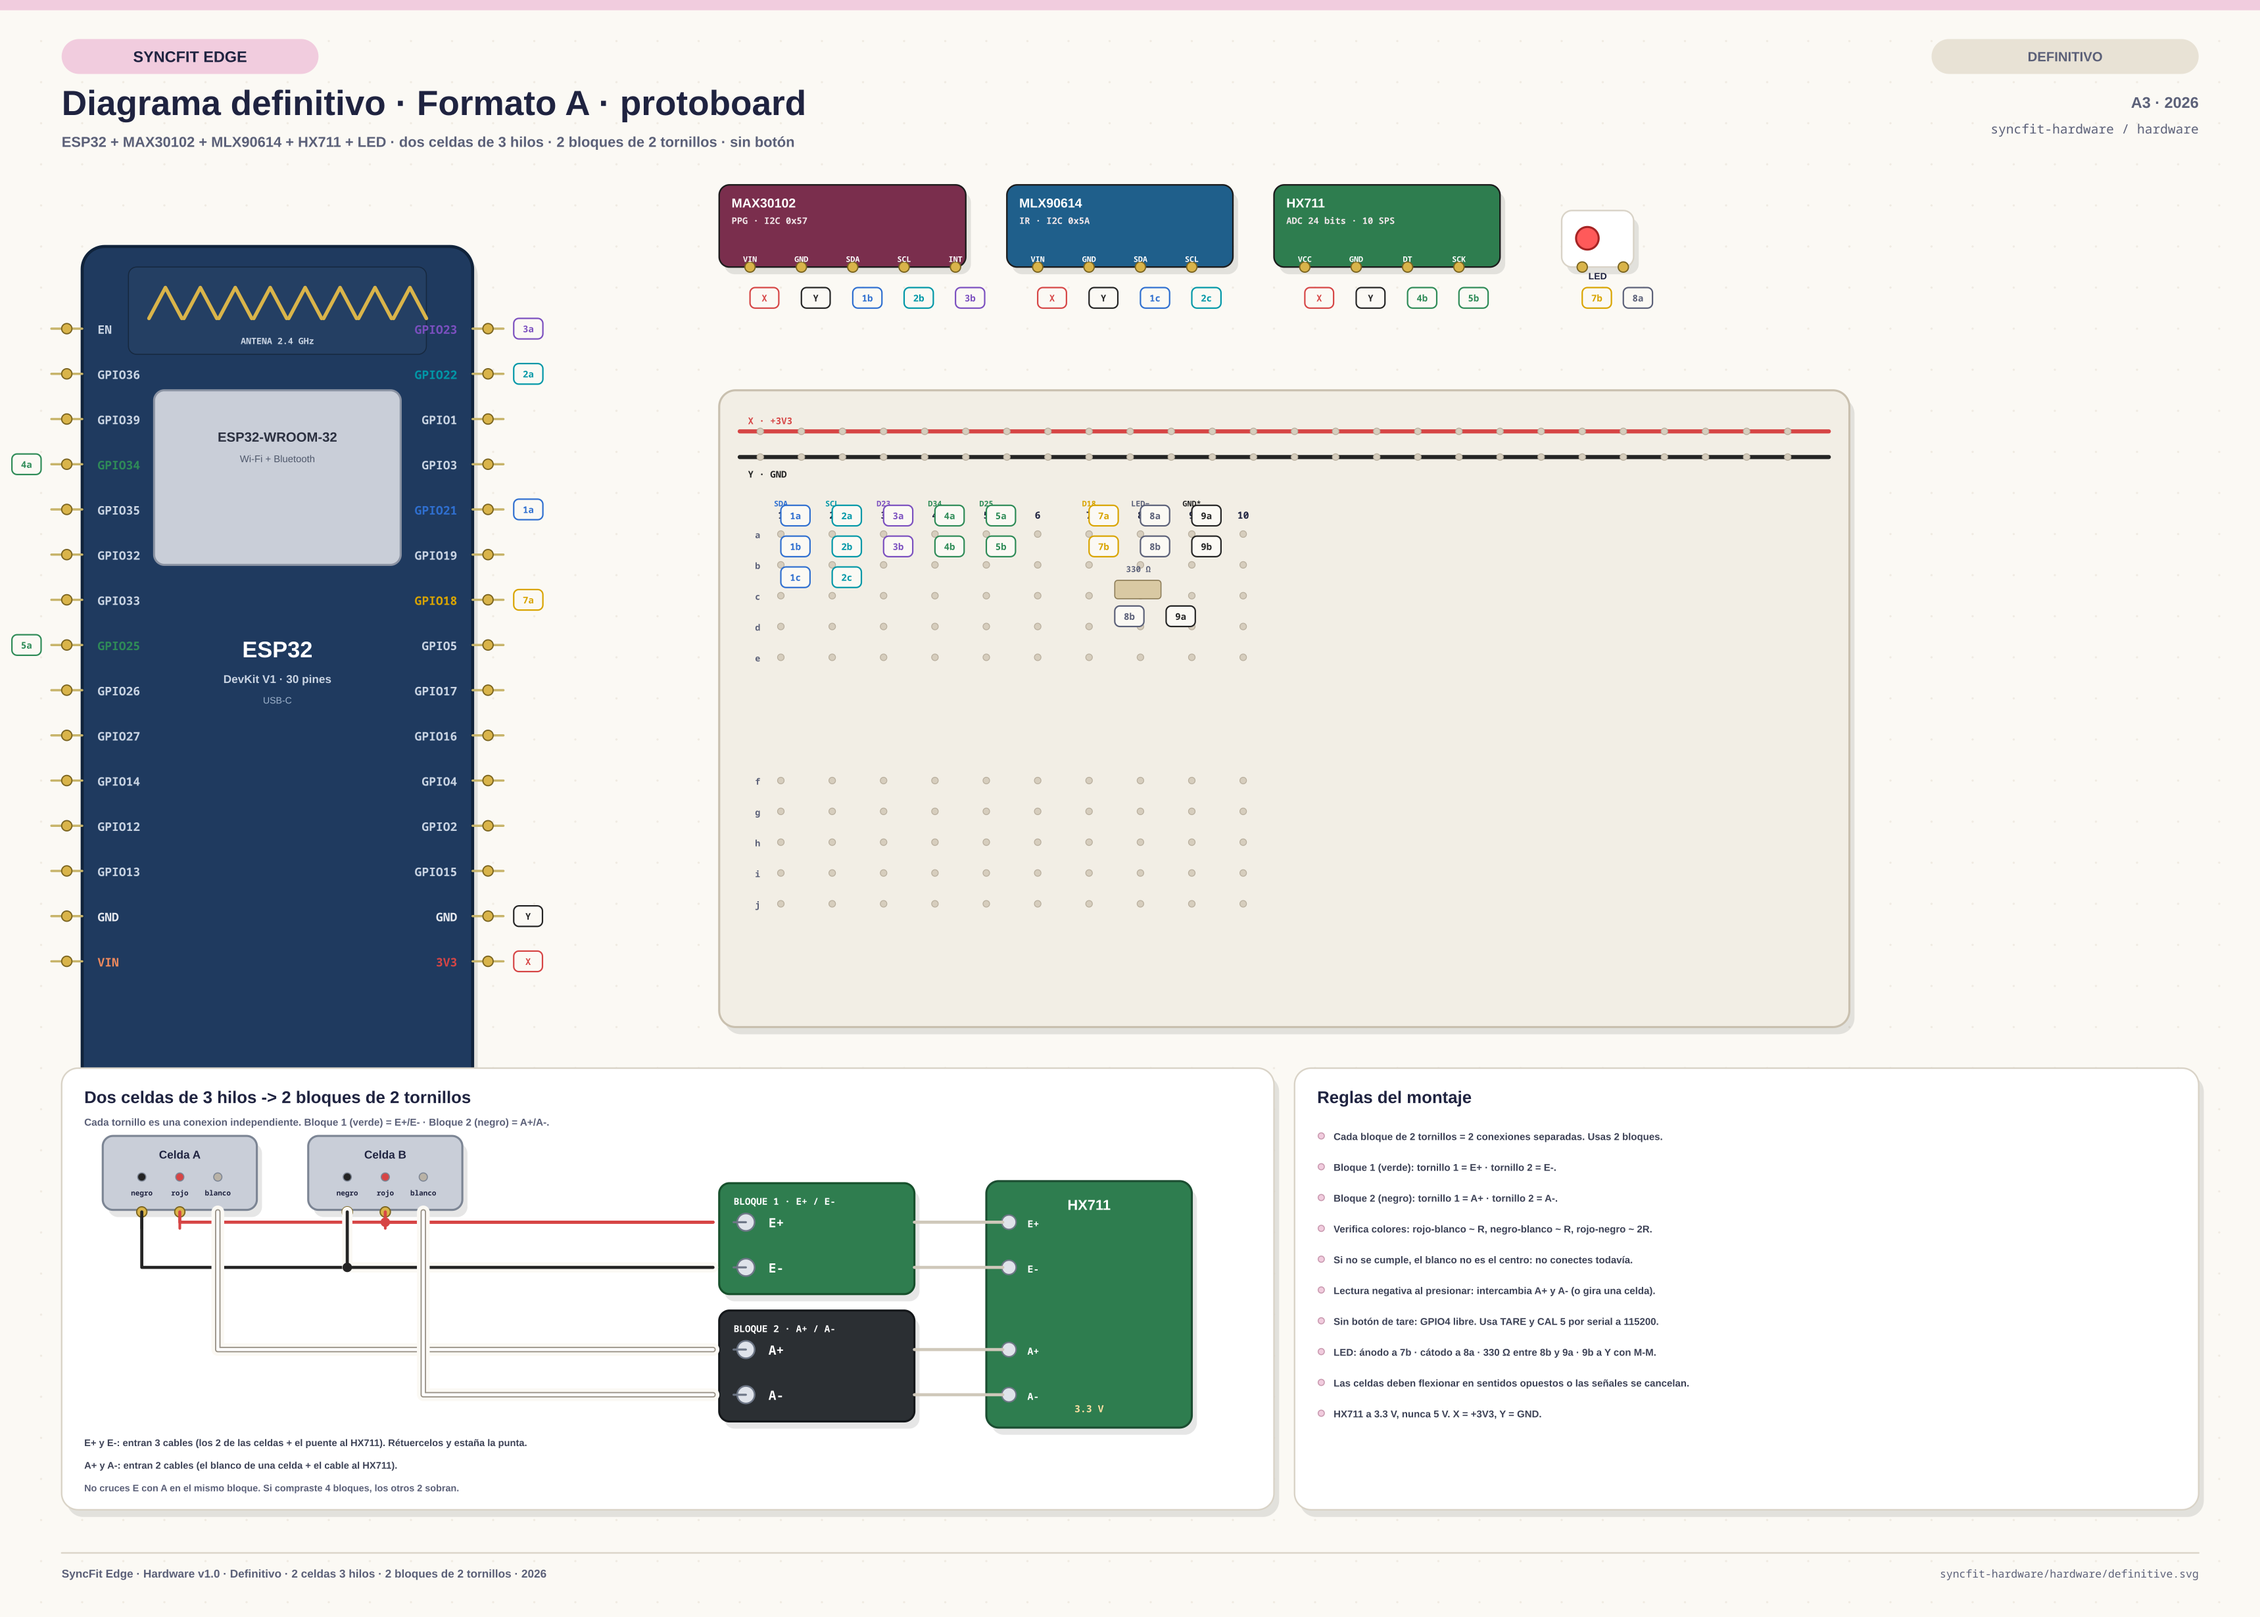
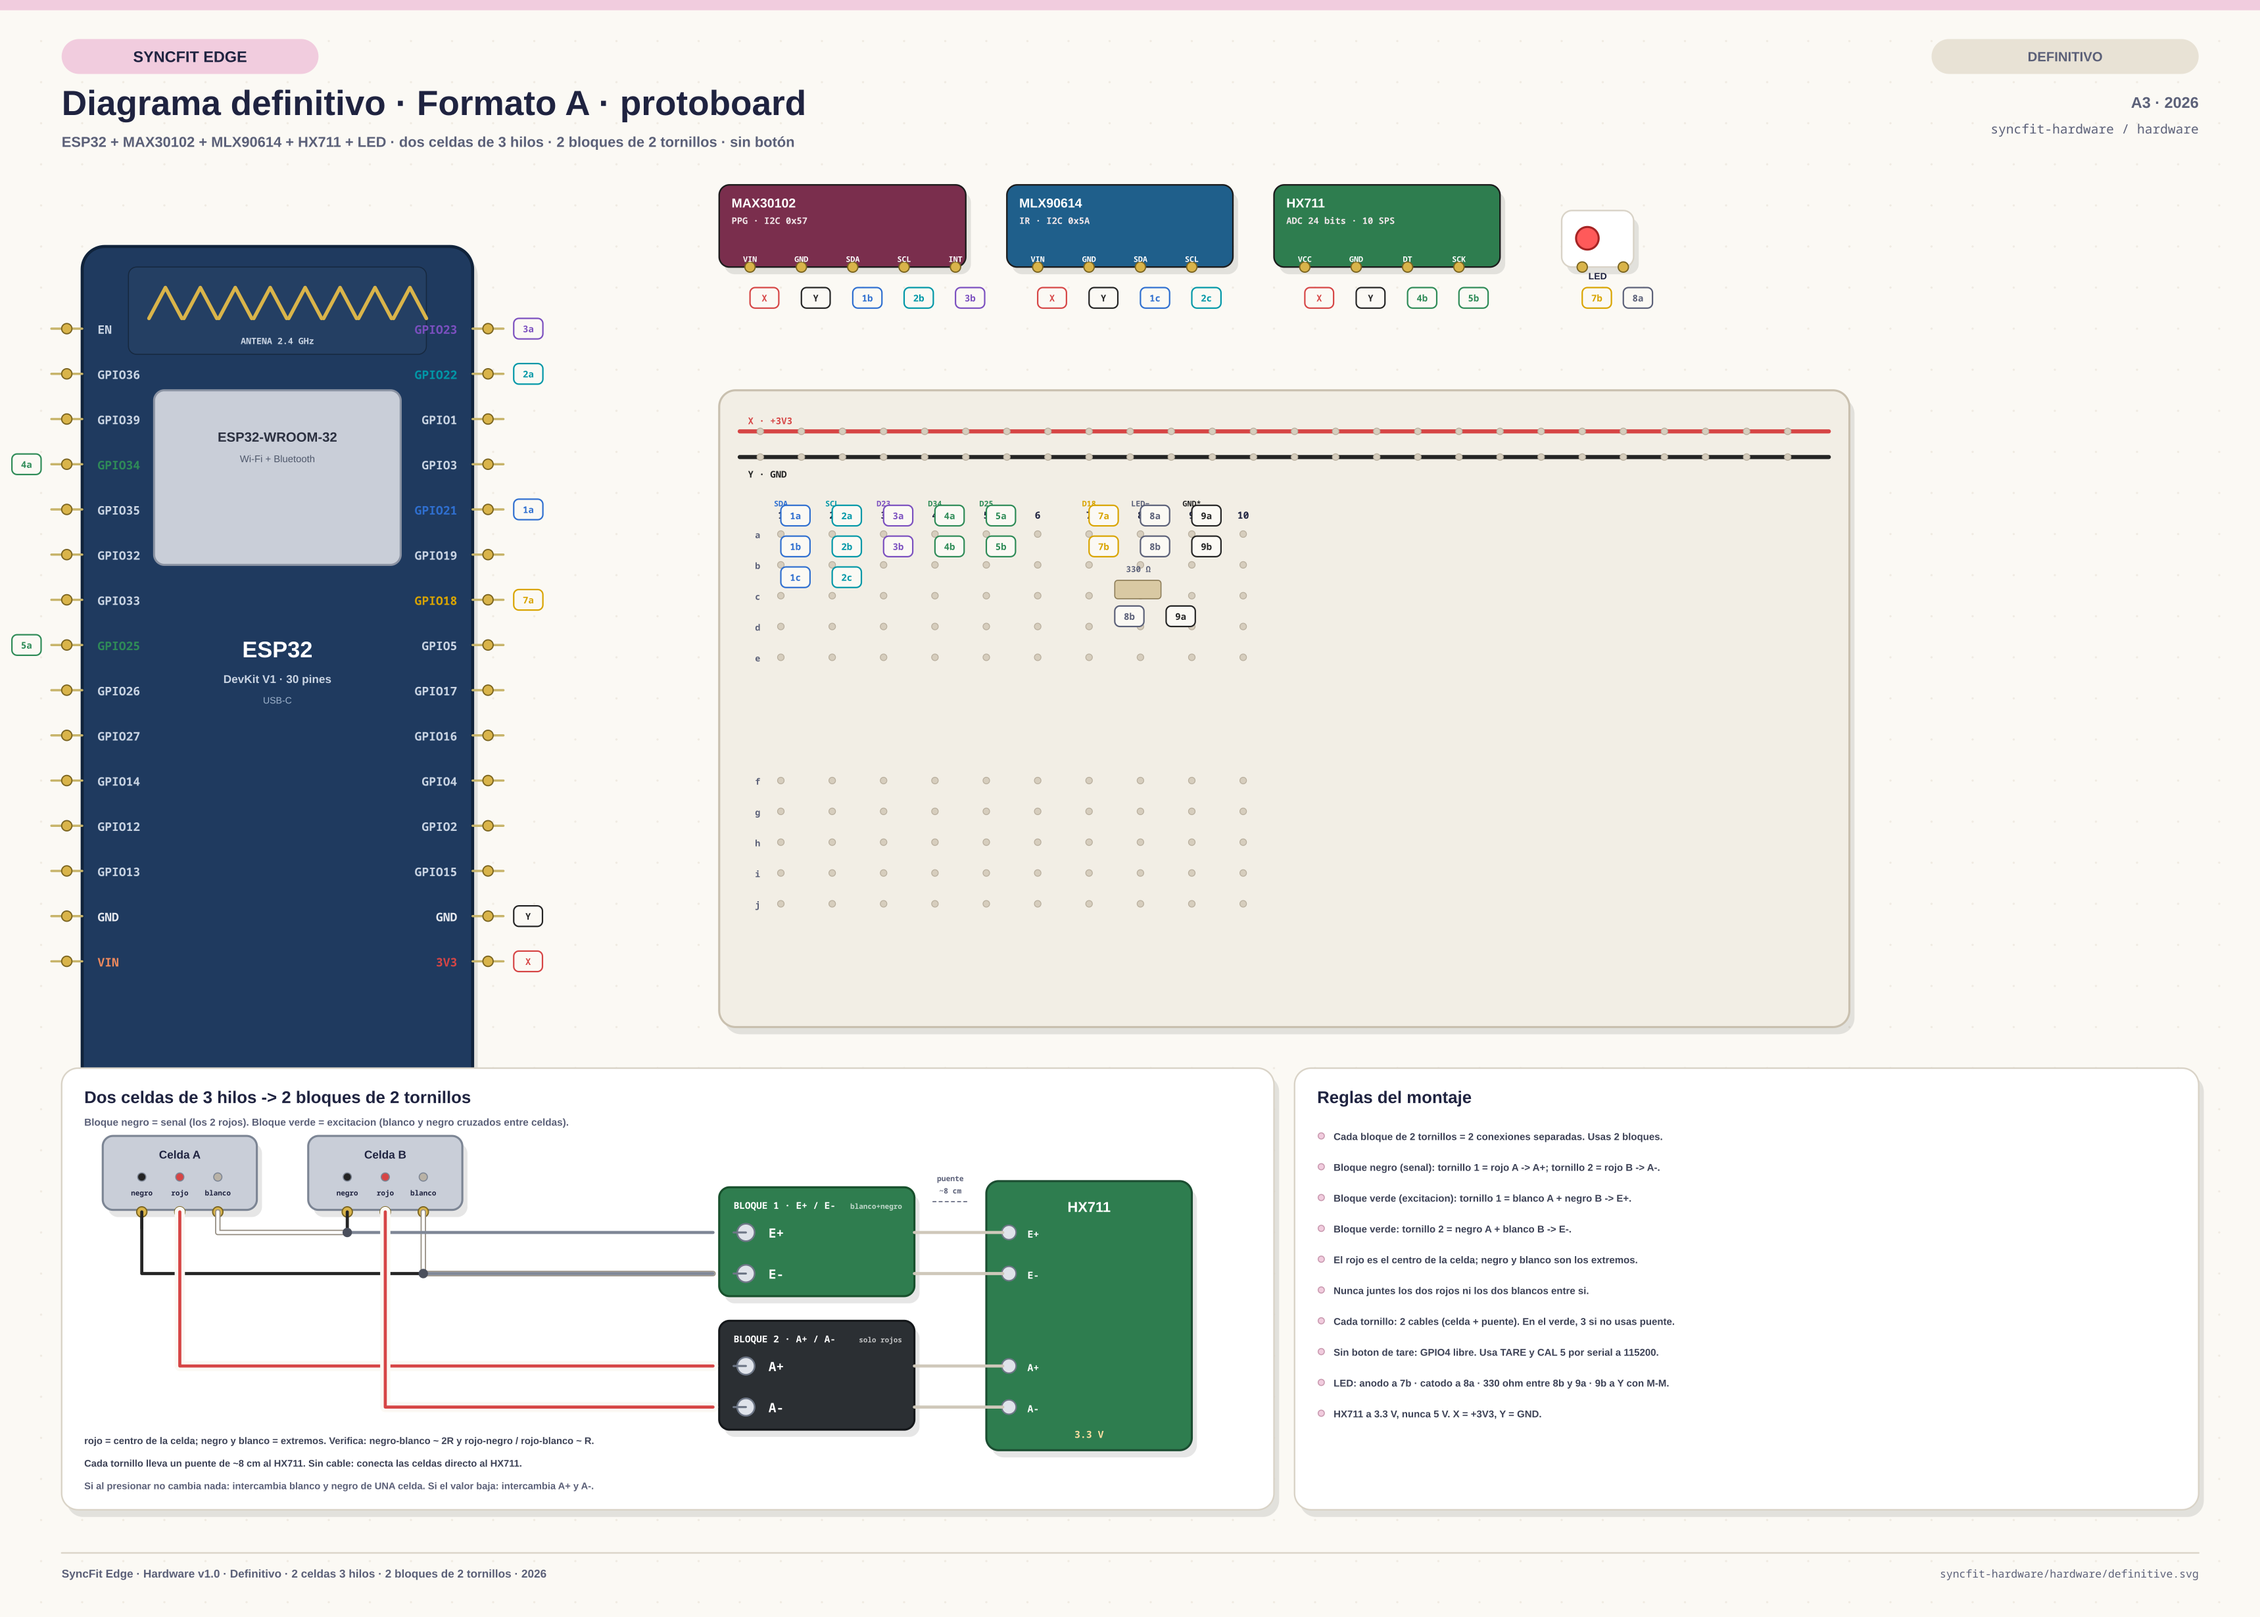
docs(hardware): red is the cell centre, ends crossed on the two blocks
Corrects the half-bridge wiring: each cell's red (centre) wire goes alone to A+/A-, and the black/white ends are crossed between cells (white A + black B to E+, black A + white B to E-). Redraws the definitive diagram with the ~8 cm jumpers and updates the connection map, pinout and READMEs.

diff --git a/hardware/connection-map.md b/hardware/connection-map.md
@@ -103,46 +103,46 @@ flat edge on the LED body also marks the cathode.
 resistor. Without it, you can test the rest of the system; the LED is only the
 status indicator.
 
-## 7. Two 3-wire load cells → HX711
+## 7. Two 3-wire load cells -> HX711
 
-Use **two identical 3-wire cells**. Each cell is a **half-bridge**: the white
-wire is the center; red and black are the ends.
+Use **two identical 3-wire cells**. Each cell is a **half-bridge**: one wire is
+the **centre** of the divider and the other two are its **ends**. On this cell
+the **red** wire is the centre; **black** and **white** are the ends.
 
 ```text
-Cell A red   ─┐
-Cell B red   ─┴── E+
+Cell A red   ──── A+
+Cell B red   ──── A−
+Cell A white ─┐
+Cell B black ─┴── E+
 Cell A black ─┐
-Cell B black ─┴── E−
-Cell A white ──── A+
-Cell B white ──── A−
+Cell B white ─┴── E−
 ```
 
-- Join the two red wires to `E+`.
-- Join the two black wires to `E−`.
-- One white wire to `A+`, the other to `A−`.
-- If the reading goes negative when you press, swap `A+` and `A−`, or rotate one
-  cell 180°.
+- The two **centres** (red) go to `A+` and `A−`, one per cell, never together.
+- The **ends are crossed**: cell A white + cell B black -> `E+`; cell A black +
+  cell B white -> `E−`.
+- Never join the two reds to each other, and never join the two whites.
+- If pressing does nothing, swap black and white of **one** cell (or rotate that
+  cell 180°).
+- If the reading goes negative, swap `A+` and `A−`.
 
-**Before soldering**, verify the colors with a multimeter:
+**Before connecting**, verify the colours with a multimeter:
 
 | Measurement | Expected for a half-bridge |
 |---|---|
-| red ↔ white | about R |
-| black ↔ white | about R |
-| red ↔ black | about 2R |
+| red <-> black | about R |
+| red <-> white | about R |
+| black <-> white | about 2R |
 
-If those values do not match, the wire colors are not the assumed mapping. Do
-not connect it until you confirm.
+The pair that reads 2R is the pair of ends; the remaining wire is the centre. The
+flat ribbon of this cell runs **black, red, white**, so the middle wire of the
+ribbon is also the centre.
 
-The flat ribbon of this cell runs **black, red, white** from left to right; the
-white is still the electrical center of the half-bridge, so the order on the
-cable does not change the wiring above.
-
-**Mechanics:** the two cells must be mounted so one flexes in the opposite
-direction to the other. If both are loaded the same way, the signals cancel. The
-final capacity depends on the mount: if the cells share the load, it can
-approach 2× the single-cell rating; if one takes the full load, it remains the
-single-cell rating.
+**Mechanics:** mount the two cells the same way, side by side, both compressed by
+the load. With this crossed wiring the two signals add. If one cell is mounted in
+the opposite direction, the signals cancel. The final capacity depends on the
+mount: if the cells share the load, it can approach 2x the single-cell rating; if
+one takes the full load, it stays at the single-cell rating.
 
 ### 7.1 Two 2-position terminal blocks
 
@@ -151,35 +151,37 @@ The build uses **two screw terminal blocks of 2 positions**, one **green** and o
 
 | Block | Screw | Net | What goes in the screw |
 |---|---|---|---|
-| **1 · green** | 1 | `E+` | cell A red + cell B red + wire to HX711 `E+` |
-| **1 · green** | 2 | `E−` | cell A black + cell B black + wire to HX711 `E−` |
-| **2 · black** | 1 | `A+` | cell A white + wire to HX711 `A+` |
-| **2 · black** | 2 | `A−` | cell B white + wire to HX711 `A−` |
+| **1 - green** | 1 | `E+` | cell A white + cell B black + jumper to HX711 `E+` |
+| **1 - green** | 2 | `E−` | cell A black + cell B white + jumper to HX711 `E−` |
+| **2 - black** | 1 | `A+` | cell A red + jumper to HX711 `A+` |
+| **2 - black** | 2 | `A−` | cell B red + jumper to HX711 `A−` |
 
 ```text
- red A ─┐
- red B ─┼─► [1·1 green] ──► HX711 E+
- wire  ─┘
+ wht A ─┐
+ blk B ─┴─► [1-1 green] ──► HX711 E+
 
  blk A ─┐
- blk B ─┼─► [1·2 green] ──► HX711 E−
- wire  ─┘
+ wht B ─┴─► [1-2 green] ──► HX711 E−
 
- wht A ─┐
- wire  ─┴─► [2·1 black] ──► HX711 A+
- wht B ─┐
- wire  ─┴─► [2·2 black] ──► HX711 A−
+ red A ────► [2-1 black] ──► HX711 A+
+ red B ────► [2-2 black] ──► HX711 A−
 ```
 
-**Three wires do not fit in one screw.** Twist the two cell wires together with
-the short wire that goes to the HX711 and tin the tip, so the bundle enters as a
-single conductor. The `A+`/`A−` screws only take two wires and need no twisting
-beyond keeping the pair short.
+**The jumper.** Each screw needs a short wire (about 8 cm) from the block to the
+matching HX711 terminal, with both ends stripped. A Dupont M-M jumper cut in half
+works. If you have no wire for the jumpers, skip the blocks and put the twisted
+cell pairs straight into the HX711 terminals.
+
+**Three wires in one screw.** In the green block, `E+` receives two cell wires
+plus the jumper. Twist the two cell wires together with the jumper and tin the
+tip, so the bundle enters as a single conductor. The black block only takes two
+wires per screw.
 
 Rules:
 
 - Colour-code the blocks: **green = excitation (`E`), black = signal (`A`)**.
 - **Never** put an `E` net and an `A` net in the same block.
+- **Never** put the two reds in the same screw, nor the two whites.
 - If a block turns out to be a common busbar (every screw connected to every
   other), it cannot carry two different nets. Use it for a single net only.
 - Two spare blocks are fine if you bought four; keep them as spares.

diff --git a/hardware/pinout.md b/hardware/pinout.md
@@ -99,29 +99,31 @@ I2C address: **0x5A**. Use the **3.3 V** variant. Read object and ambient temper
 | `DT` | `GPIO34` | Green |
 | `SCK` | `GPIO25` | Green |
 
-Use **two identical 3-wire cells**. Each cell is a half-bridge: the white wire is
-the center; red and black are the ends. The flat ribbon runs **black, red, white**
-from left to right; the white is still the electrical center.
+Use **two identical 3-wire cells**. Each cell is a half-bridge with one **centre**
+wire and two **ends**. On this cell the **red** wire is the centre; **black** and
+**white** are the ends. The flat ribbon runs **black, red, white**, so the middle
+wire of the ribbon is also the centre.
 
 | HX711 terminal | Cell wires |
 |---|---|
-| `E+` | Cell A red + Cell B red |
-| `E−` | Cell A black + Cell B black |
-| `A+` | Cell A white |
-| `A−` | Cell B white |
+| `E+` | Cell A white + Cell B black |
+| `E−` | Cell A black + Cell B white |
+| `A+` | Cell A red |
+| `A−` | Cell B red |
 
-If the reading goes negative when pressing, swap `A+` and `A−`, or rotate one
-cell 180°. Join the two reds and the two blacks with **two 2-position screw
-blocks**: one green for `E+`/`E−` and one black for `A+`/`A−`. Twist the pair of
-cell wires together with the wire that goes to the HX711, because a single
-screw does not take three separate wires.
+If the reading goes negative when pressing, swap `A+` and `A−`. If pressing does
+nothing, swap black and white of one cell (or rotate it 180°). Join the pairs
+with **two 2-position screw blocks**: one green for `E+`/`E−` and one black for
+`A+`/`A−`. Each screw needs a short jumper (~8 cm) to the HX711; in the green
+block twist the two cell wires with the jumper because a single screw does not
+take three separate wires.
 
 | Block | Screw | Net |
 |---|---|---|
-| 1 · green | 1 | `E+` — cell A red + cell B red + wire to HX711 |
-| 1 · green | 2 | `E−` — cell A black + cell B black + wire to HX711 |
-| 2 · black | 1 | `A+` — cell A white + wire to HX711 |
-| 2 · black | 2 | `A−` — cell B white + wire to HX711 |
+| 1 · green | 1 | `E+` — cell A white + cell B black + jumper to HX711 |
+| 1 · green | 2 | `E−` — cell A black + cell B white + jumper to HX711 |
+| 2 · black | 1 | `A+` — cell A red + jumper to HX711 |
+| 2 · black | 2 | `A−` — cell B red + jumper to HX711 |
 
 Never put an `E` net and an `A` net in the same block.
 

diff --git a/hardware/README.md b/hardware/README.md
@@ -31,8 +31,9 @@ The definitive build uses:
 
 - **400-point breadboard** as a bus; the ESP32 and modules stay **free**.
 - **X = +3V3**, **Y = GND** (the board has only one pair of rails).
-- **Two identical 3-wire half-bridge load cells** in a full bridge:
-  reds → `E+`, blacks → `E−`, whites → `A+` / `A−`.
+- **Two identical 3-wire half-bridge load cells** in a full bridge: the **red**
+  centre wire of each cell goes to `A+` / `A−`, and the ends are crossed —
+  white A + black B → `E+`, black A + white B → `E−`.
 - **Two 2-position screw blocks** (one green, one black) as the cell junction:
   green = `E+`/`E−`, black = `A+`/`A−`; one net per screw.
 - **No tare button**: GPIO4 is left free; use the serial command `TARE`.
@@ -48,14 +49,14 @@ The definitive build uses:
 | MAX30102 | INT | 23 |
 | MLX90614 | SDA / SCL | 21 / 22 (shared I2C) |
 | HX711 | DT / SCK | 34 / 25 |
-| Two 3-wire cells | reds `E+`, blacks `E−`, whites `A+`/`A−` | 2-position blocks → HX711 |
+| Two 3-wire cells | reds → `A+`/`A−`; ends crossed → `E+`/`E−` | 2-position blocks → HX711 |
 | Status LED | GPIO → 330 Ω → LED → Y | 18 |
 | Buzzer (optional) | GPIO → NPN | 17 |
 | Battery ADC (Format B) | divider 100k/100k | 35 |
 | USB-C | 5 V / programming | integrated |
 
-**Notes.** HX711 runs at 3.3 V. The two cells must be mechanically mounted so they
-flex in opposite directions; otherwise their signals cancel. The final capacity
+**Notes.** HX711 runs at 3.3 V. Mount the two cells the same way, both compressed
+by the load: with the crossed ends their signals add. The final capacity
 depends on the mount (shared load can approach 2× the single-cell rating). Use a
 mechanical stop. I2C pull-ups are 4.7 kΩ to X only when the modules do not
 already include them.

diff --git a/README.md b/README.md
@@ -107,7 +107,8 @@ Format A build sheet (`hardware/definitive.svg`, `definitive.png`,
 `connection-map.md`, `pinout.md`, `bom.csv`). Pending: hardware-in-the-loop
 calibration, CI contract validation, electrical schematic and Format B. The
 definitive build uses two identical 3-wire half-bridge cells joined with two
-2-position screw blocks, no tare button, and the 400-point board as a bus. See
+2-position screw blocks (red centre to A+/A−, ends crossed to E+/E−), no tare
+button, and the 400-point board as a bus. See
 `hardware/README.md`.
 
 ## Context for a new session
